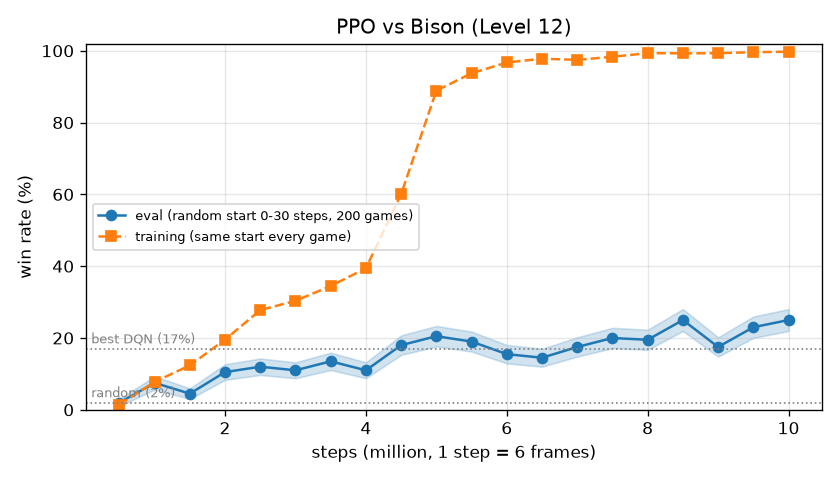
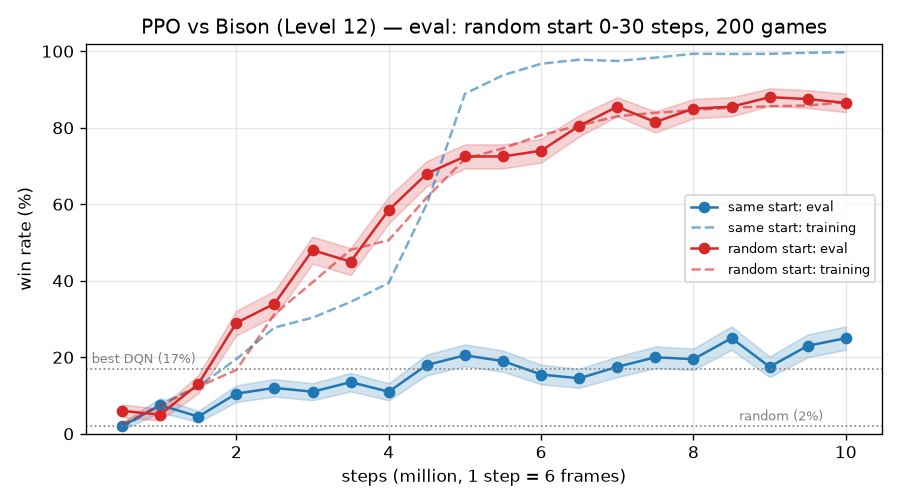
docs: PPO로 스트리트 파이터 2를 학습한 9장 부록과 무작위 시작 결과를 추가
9장 부록에 DQN과 달라진 점(버튼별 확률, 탐색 내장, 온-정책), 같은 시작에서 한 판을 외운 첫 시도(평가 25%),
학습에도 무작위 시작을 넣어 평가 승률 86.5%에 이른 두 번째 시도를 정리했다.
eval_report.md와 승률 그래프에 무작위 시작 학습 결과를 더했다.

Changed region(s): [[0.0, 0.0312, 0.9905, 0.9688]]

diff --git a/ch09/README.md b/ch09/README.md
@@ -373,3 +373,63 @@ def update(self, state, action_prob, reward, next_state, done):
     다시 배우기를 반복해 끝에서는 REINFORCE에 뒤짐
 - **정책 기반이 진가를 발휘하는 곳은 행동이 연속값일 때** — 분포의 매개변수를 출력하면 그만
 - 다음 장에서는 이 알고리즘들이 A3C·A2C·DDPG·PPO로 확장되는 모습을 살펴본다
+## 부록: PPO로 스트리트 파이터 2 학습하기
+- 8장 부록에서 DQN은 최고 난이도 베가를 상대로 **승률 17%**에서 멈췄음
+- 같은 환경을 9.4의 **행위자-비평자**를 다듬은 **PPO**(10.2.3)로 다시 학습
+- 코드: [`../sf2/ppo.py`](../sf2/ppo.py), 평가 [`../sf2/evaluate_ppo.py`](../sf2/evaluate_ppo.py), 결과 [`../sf2/eval_report.md`](../sf2/eval_report.md)
+### DQN과 달라진 점
+- **행동을 이산화할 필요가 없음** — 9.5의 장점이 그대로 쓰임
+  - DQN은 `argmax_a Q(s,a)`로 번호 하나를 골라야 해서 버튼 조합 17가지만 행동으로 뒀음
+  - PPO의 행위자는 **버튼 12개마다 누를 확률**(베르누이 분포 12개)을 출력하고 각각 뽑음 → `2¹² = 4,096`가지 조합을 모두 쓸 수 있음
+- **ε-탐욕이 필요 없음** — 확률적으로 행동하므로 탐색이 정책에 들어 있음
+- **경험 재생이 없음** — 온-정책이라 지금 정책으로 모은 데이터만 씀
+  - 대신 환경 16개를 동시에 돌려 한 번에 `16 × 512 = 8,192`걸음씩 모으고, 그것으로 4번 학습한 뒤 버림
+- 구조는 9.4와 같음 — CNN을 공유하고 끝에서 **행위자(정책)와 비평자(`V`)**로 갈라짐
+  - 행위자의 점수표는 비평자로 만든 **어드밴티지**(9.3 베이스라인의 확장)
+  - 9.4 실험에서 본 '정책이 통째로 무너지는' 문제를 PPO는 **확률비를 `[1-ε, 1+ε]`로 잘라** 막음
+- 학습은 [stable-baselines3](https://stable-baselines3.readthedocs.io/)의 PPO를 쓰고, 설정은 참고 프로젝트([linyiLYi/street-fighter-ai](https://github.com/linyiLYi/street-fighter-ai))와 같게 맞춤
+  |  |값 |
+  |:--|:--|
+  |환경 수 × 수집 걸음 |16 × 512 |
+  |미니배치 / 반복 |512 / 4번 |
+  |`γ` |0.94 |
+  |학습률 |2.5e-4 → 2.5e-6(직선 감소) |
+  |클리핑 범위 `ε` |0.15 → 0.025(직선 감소) |
+  |총 걸음 |1,000만(= 6천만 프레임, 60fps로 약 278시간 분량) |
+  - GPU 하나에서 1시간 15분~2시간(초당 1,300~2,200걸음)
+### 첫 번째 시도: 한 판을 외움
+- 학습 중 승률은 400만 걸음 근처부터 급히 올라 **100%**에 닿음
+- 그런데 평가하면 **25%**. 평가는 판마다 처음 0~30걸음을 무작위로 움직여 출발 상황을 흔듦(8장 부록과 같은 방식)
+- ![](../sf2/eval_ppo_winrate.png)
+  - **볼 곳**: 파란 점선(학습 중)은 100%로 올라가는데 파란 실선(평가)은 20%대에 머묾. 빨강은 아래 두 번째 시도
+- 원인: **에뮬레이터가 결정적**이라 학습할 때 매 판이 똑같은 상황에서 시작함
+  - 무작위 시작 없이 돌리면 100판 모두 이기고, 보상도 매번 `0.978`로 같음
+  - 판 길이도 230걸음 안팎에서 **71걸음**으로 줄어듦 — 이기는 행동 순서 하나를 외워 그대로 재생한 것
+  - 그 경로를 벗어나면 버튼마다 누를 확률이 0.3~0.6에 머묾. 정책이 거의 흐릿한 상태
+- 강화 학습판 **과적합** — 학습 데이터(시작 상황)가 하나뿐이면 일반화할 것이 없음
+### 두 번째 시도: 무작위 시작
+- 학습할 때도 판마다 처음 0~30걸음을 무작위로 움직인 뒤 에이전트에게 넘김(`--random-start 30`)
+  ```python
+  class RandomStart(gym.Wrapper):
+      def reset(self, **kwargs):
+          obs, info = self.env.reset(**kwargs)
+          for _ in range(self.rng.integers(0, self.max_steps + 1)):
+              action = self.rng.integers(0, 2, self.action_space.n)   # 버튼마다 무작위로 누름
+              obs, _, terminated, truncated, info = self.env.step(action)
+          return obs, info
+  ```
+  - 무작위 구간의 보상은 에이전트에게 넘기지 않음. 나머지 설정은 첫 시도와 같음
+- 결과 — 체크포인트마다 무작위 시작으로 200판 평가
+  |걸음 |100만 |200만 |300만 |400만 |500만 |600만 |700만 |800만 |900만 |1,000만 |
+  |:--|--:|--:|--:|--:|--:|--:|--:|--:|--:|--:|
+  |평가 승률 |5% |29% |48% |59% |73% |74% |86% |85% |88% |87% |
+  - 그래프의 빨강. 학습 중 승률(점선)과 평가 승률(실선)이 **거의 겹침** — 외운 것이 아니라 일반화했다는 뜻
+  - 700만 걸음부터는 81~88%에서 더 오르지 않음. 학습률·클리핑 범위가 끝으로 갈수록 작아지는 영향일 수 있음
+  - 이긴 판의 남은 체력은 250만 걸음 63 → 1,000만 걸음 119(최대 176), 이긴 판 길이는 235 → 165걸음 → 더 빨리, 덜 맞고 이김
+  - 마지막 모델 86.5%는 같은 걸음 수의 첫 시도(25%)보다 **3.5배**, DQN 최고(17%, 100만 걸음)보다 5배 높음
+### 정리
+- PPO로 바꾸는 것만으로는 부족했고, **시작 상황을 다양하게 만든 것**이 결정적이었음
+  - 첫 시도의 PPO도 학습 로그만 보면 '완벽하게 이김'이었음 → **학습 중 성적은 믿을 수 없음**
+  - 평가는 반드시 학습 때 보지 못한 상황에서 할 것
+- 결정적인 환경(에뮬레이터, 시뮬레이터)에서는 무작위 시작 같은 장치가 없으면 쉽게 외움
+  - 아타리 DQN 논문이 시작할 때 '아무것도 안 하기'를 무작위 횟수만큼 넣은(no-op start) 것도 같은 이유

diff --git a/sf2/eval_report.md b/sf2/eval_report.md
@@ -135,6 +135,8 @@ uv run python sf2/evaluate_ppo.py runs/ppo --episodes 200 --workers 60 --out run
 
 ![PPO 체크포인트별 승률](eval_ppo_winrate.png)
 
+파란색이 이 학습이다(실선은 평가, 점선은 학습 중 승률). 빨간색은 아래 "PPO + 무작위 시작"이다.
+
 | 걸음 | 100만 | 250만 | 500만 | 750만 | 1,000만 |
 |:--|--:|--:|--:|--:|--:|
 | 학습 중 승률(직전 50만 걸음) | 7.8% | 27.8% | 88.9% | 98.3% | 99.7% |
@@ -165,3 +167,38 @@ DQN의 가장 좋은 결과(학습률 감소, 100만 걸음, 17%)보다 높다. 
 3. 학습률·클리핑 범위가 전체 걸음 수에 맞춰 줄어드므로, 1,000만 걸음 학습의 250만 걸음 모델은 1억 걸음 학습의 같은 지점과 다르다. 비교할 때 이 차이를 감안한다.
 
 원자료는 `runs/eval_ppo.csv`, 버튼을 누른 비율은 `runs/eval_ppo_buttons.csv`, 학습 기록은 `runs/ppo/episodes.csv`다.
+
+## PPO + 무작위 시작 (2026-10-10 오전)
+
+위의 "다음에 해볼 것" 1번을 했다. 학습할 때도 판마다 처음 0~30걸음을 무작위로 움직인 뒤 에이전트에게 넘긴다(`--random-start 30`).
+무작위 구간의 보상은 넘기지 않고, 나머지 설정과 1,000만 걸음은 첫 PPO와 같다. 초당 약 1,400걸음으로 2시간 걸렸다(`runs/ppo_rs`).
+
+```bash
+uv run python sf2/ppo.py --random-start 30 --out runs/ppo_rs
+uv run python sf2/evaluate_ppo.py runs/ppo_rs --episodes 200 --workers 60 --out runs/eval_ppo_rs.csv
+```
+
+위 그래프의 빨강이 이번 학습이다.
+
+| 평가 승률(%) | 100만 | 250만 | 500만 | 750만 | 1,000만 |
+|:--|--:|--:|--:|--:|--:|
+| 첫 PPO(같은 시작) | 7.5 | 12.0 | 20.5 | 20.0 | 25.0 |
+| PPO + 무작위 시작 | 5.0 | 34.0 | 72.5 | 81.5 | 86.5 |
+
+**외우지 않고 일반화했다.** 마지막 모델은 무작위 시작 평가에서 86.5%를 이긴다. 첫 PPO(25%)의 3.5배, DQN 최고(17%)의 5배다.
+학습 중 승률(마지막 100만 걸음 86.3%)과 평가 승률이 거의 같다. 첫 PPO처럼 학습 승률만 100%로 치솟는 일이 없다.
+마지막 100만 걸음의 6,549판에서 서로 다른 보상 값이 2,781가지라, 한 경로를 반복하지 않는다(첫 PPO는 42가지).
+
+**이기는 방식도 나아졌다.** 이긴 판에 남은 체력은 250만 걸음 63에서 1,000만 걸음 119(최대 176)로,
+이긴 판 길이는 235걸음에서 165걸음으로 줄었다. 진 판에서도 베가의 남은 체력이 60 안팎으로 첫 PPO(80)보다 적다.
+
+**700만 걸음부터는 81~88%에서 더 오르지 않는다.** 바로 옆 체크포인트끼리의 차이는 표준오차(약 2.5%p) 안팎이다.
+학습률과 클리핑 범위가 끝으로 갈수록 작아지는 영향일 수 있다.
+
+### 다음에 해볼 것
+
+1. 걸음 수를 늘려(예: 3,000만) 81~88%에서 멈춘 것이 스케줄 탓인지 확인한다.
+2. 무작위 시작 구간을 늘리거나(0~100걸음) 다른 저장 상태(다른 상대·라운드)를 섞어, 다른 상황에도 통하는지 본다.
+3. 결정적 행동(`--deterministic`)과 확률적 행동의 승률을 비교한다.
+
+원자료는 `runs/eval_ppo_rs.csv`, 버튼을 누른 비율은 `runs/eval_ppo_rs_buttons.csv`, 학습 기록은 `runs/ppo_rs/episodes.csv`다.
